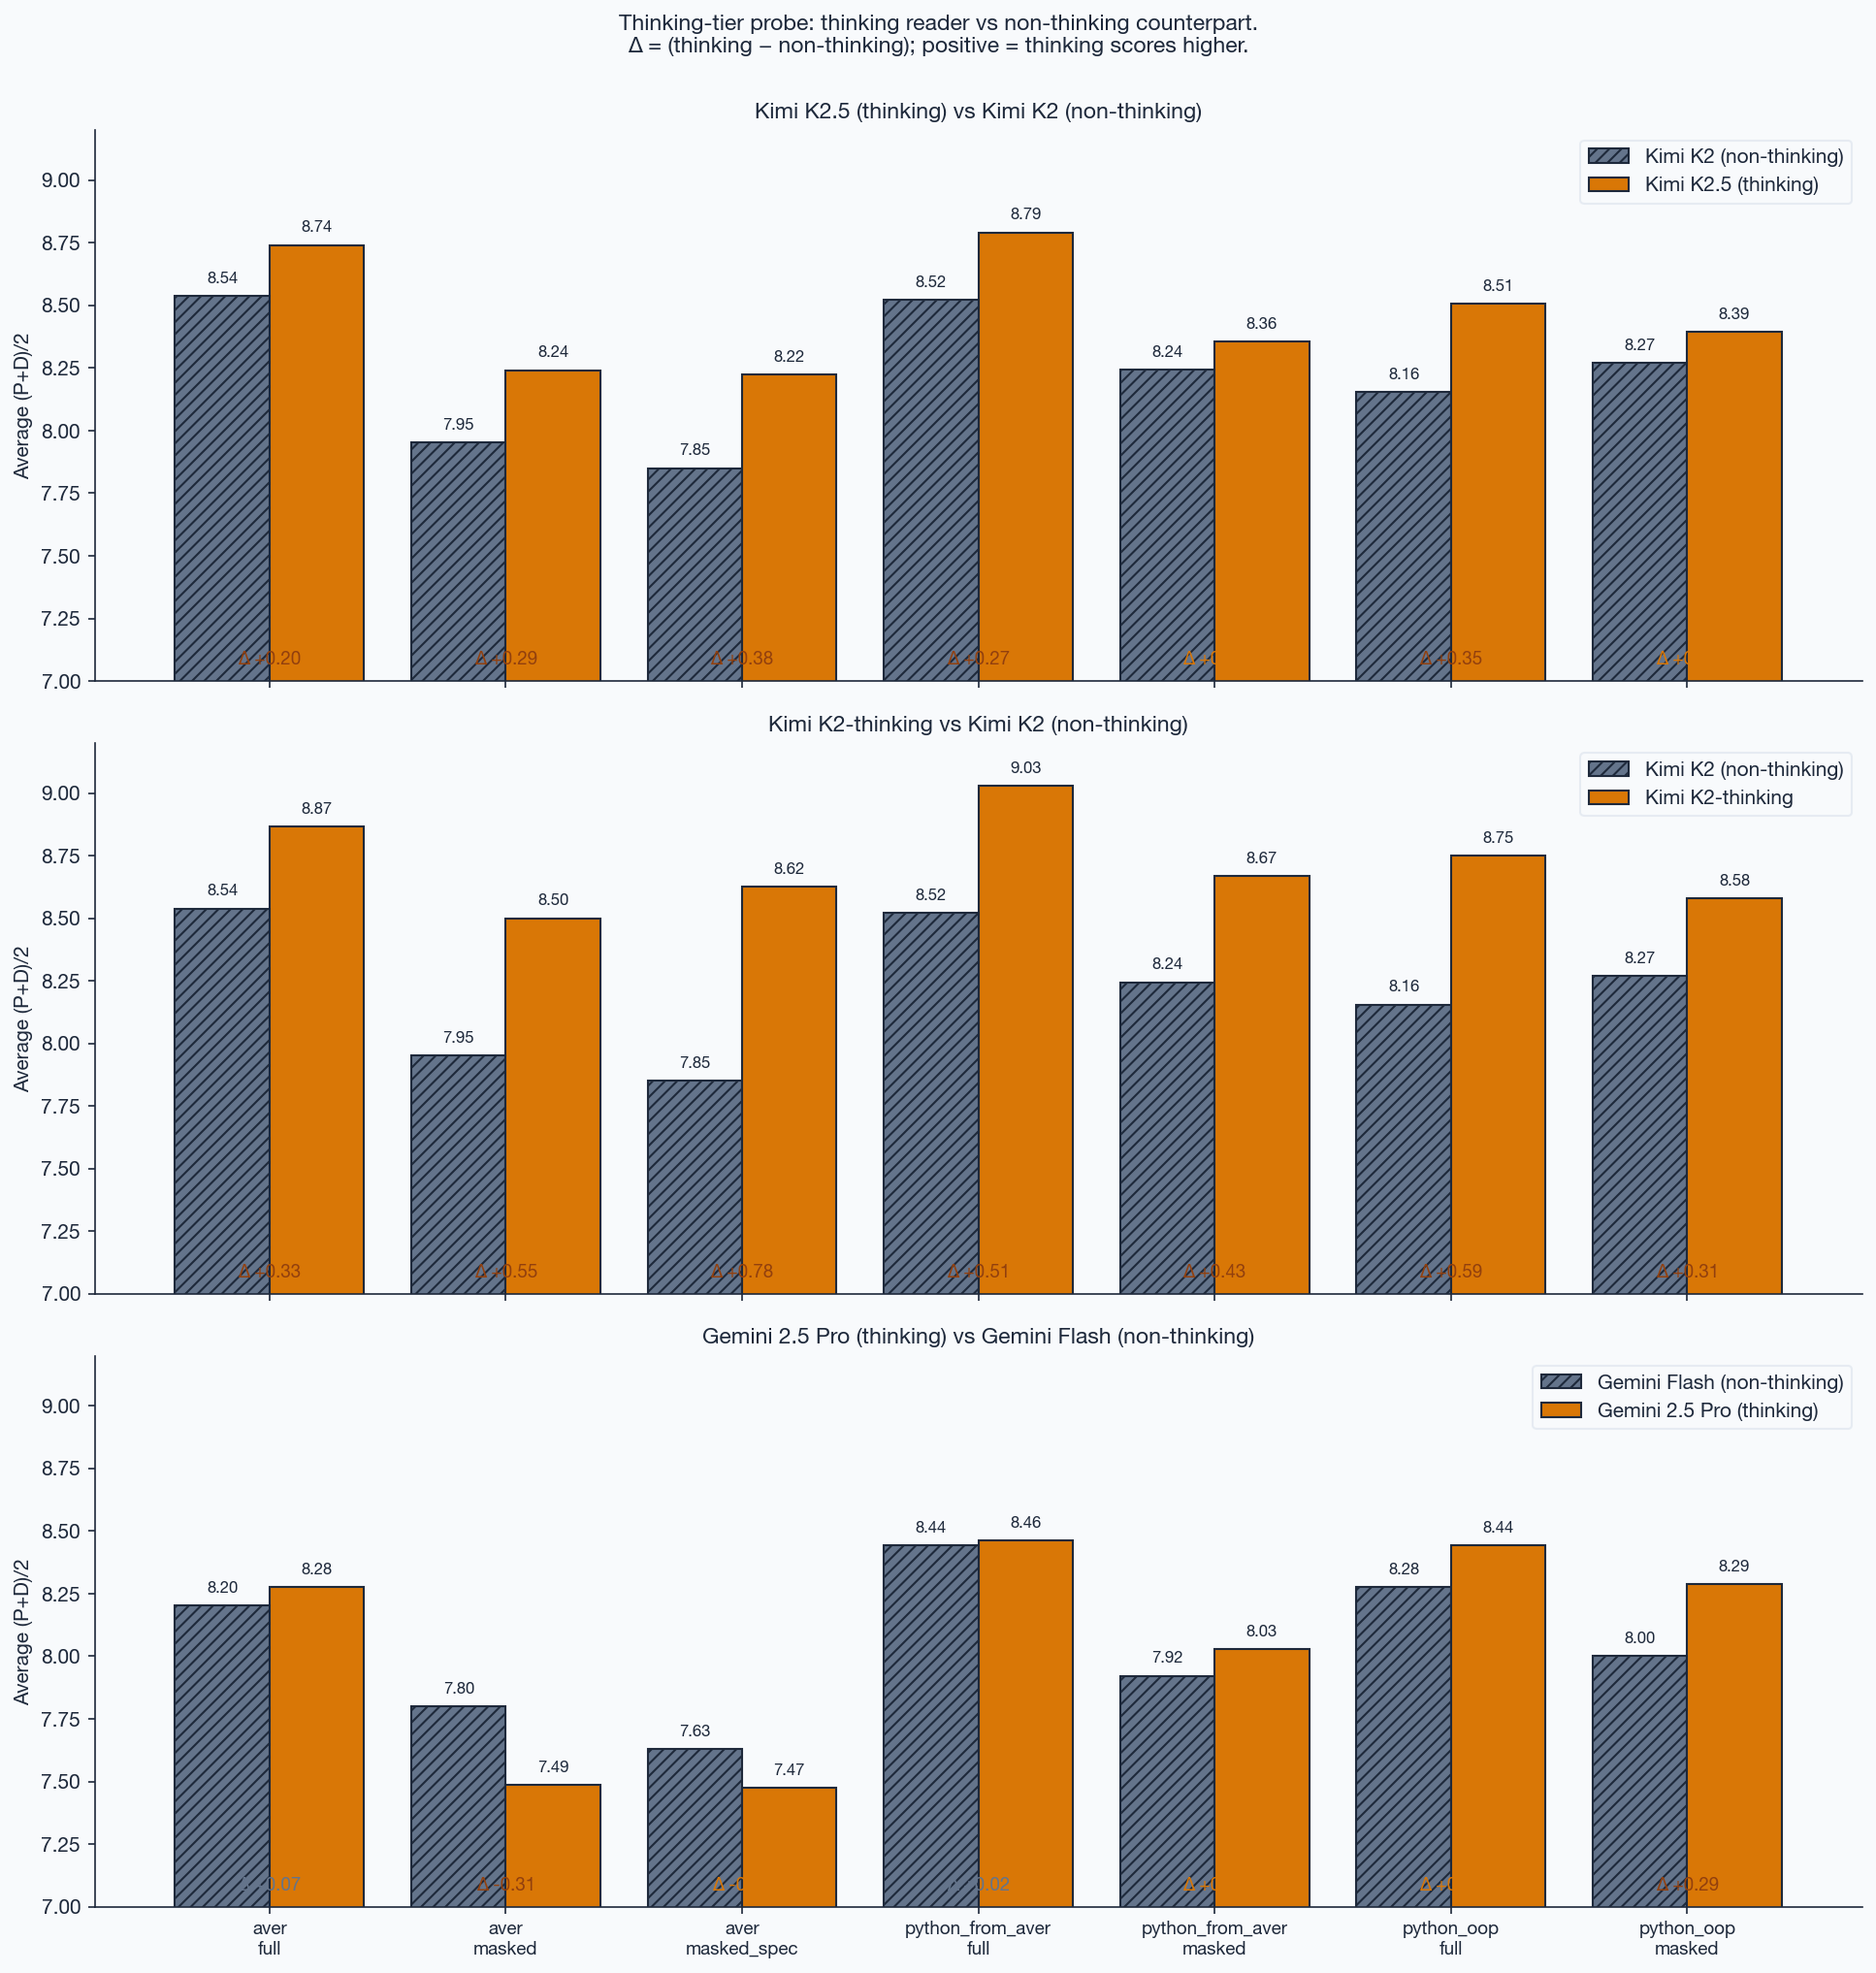
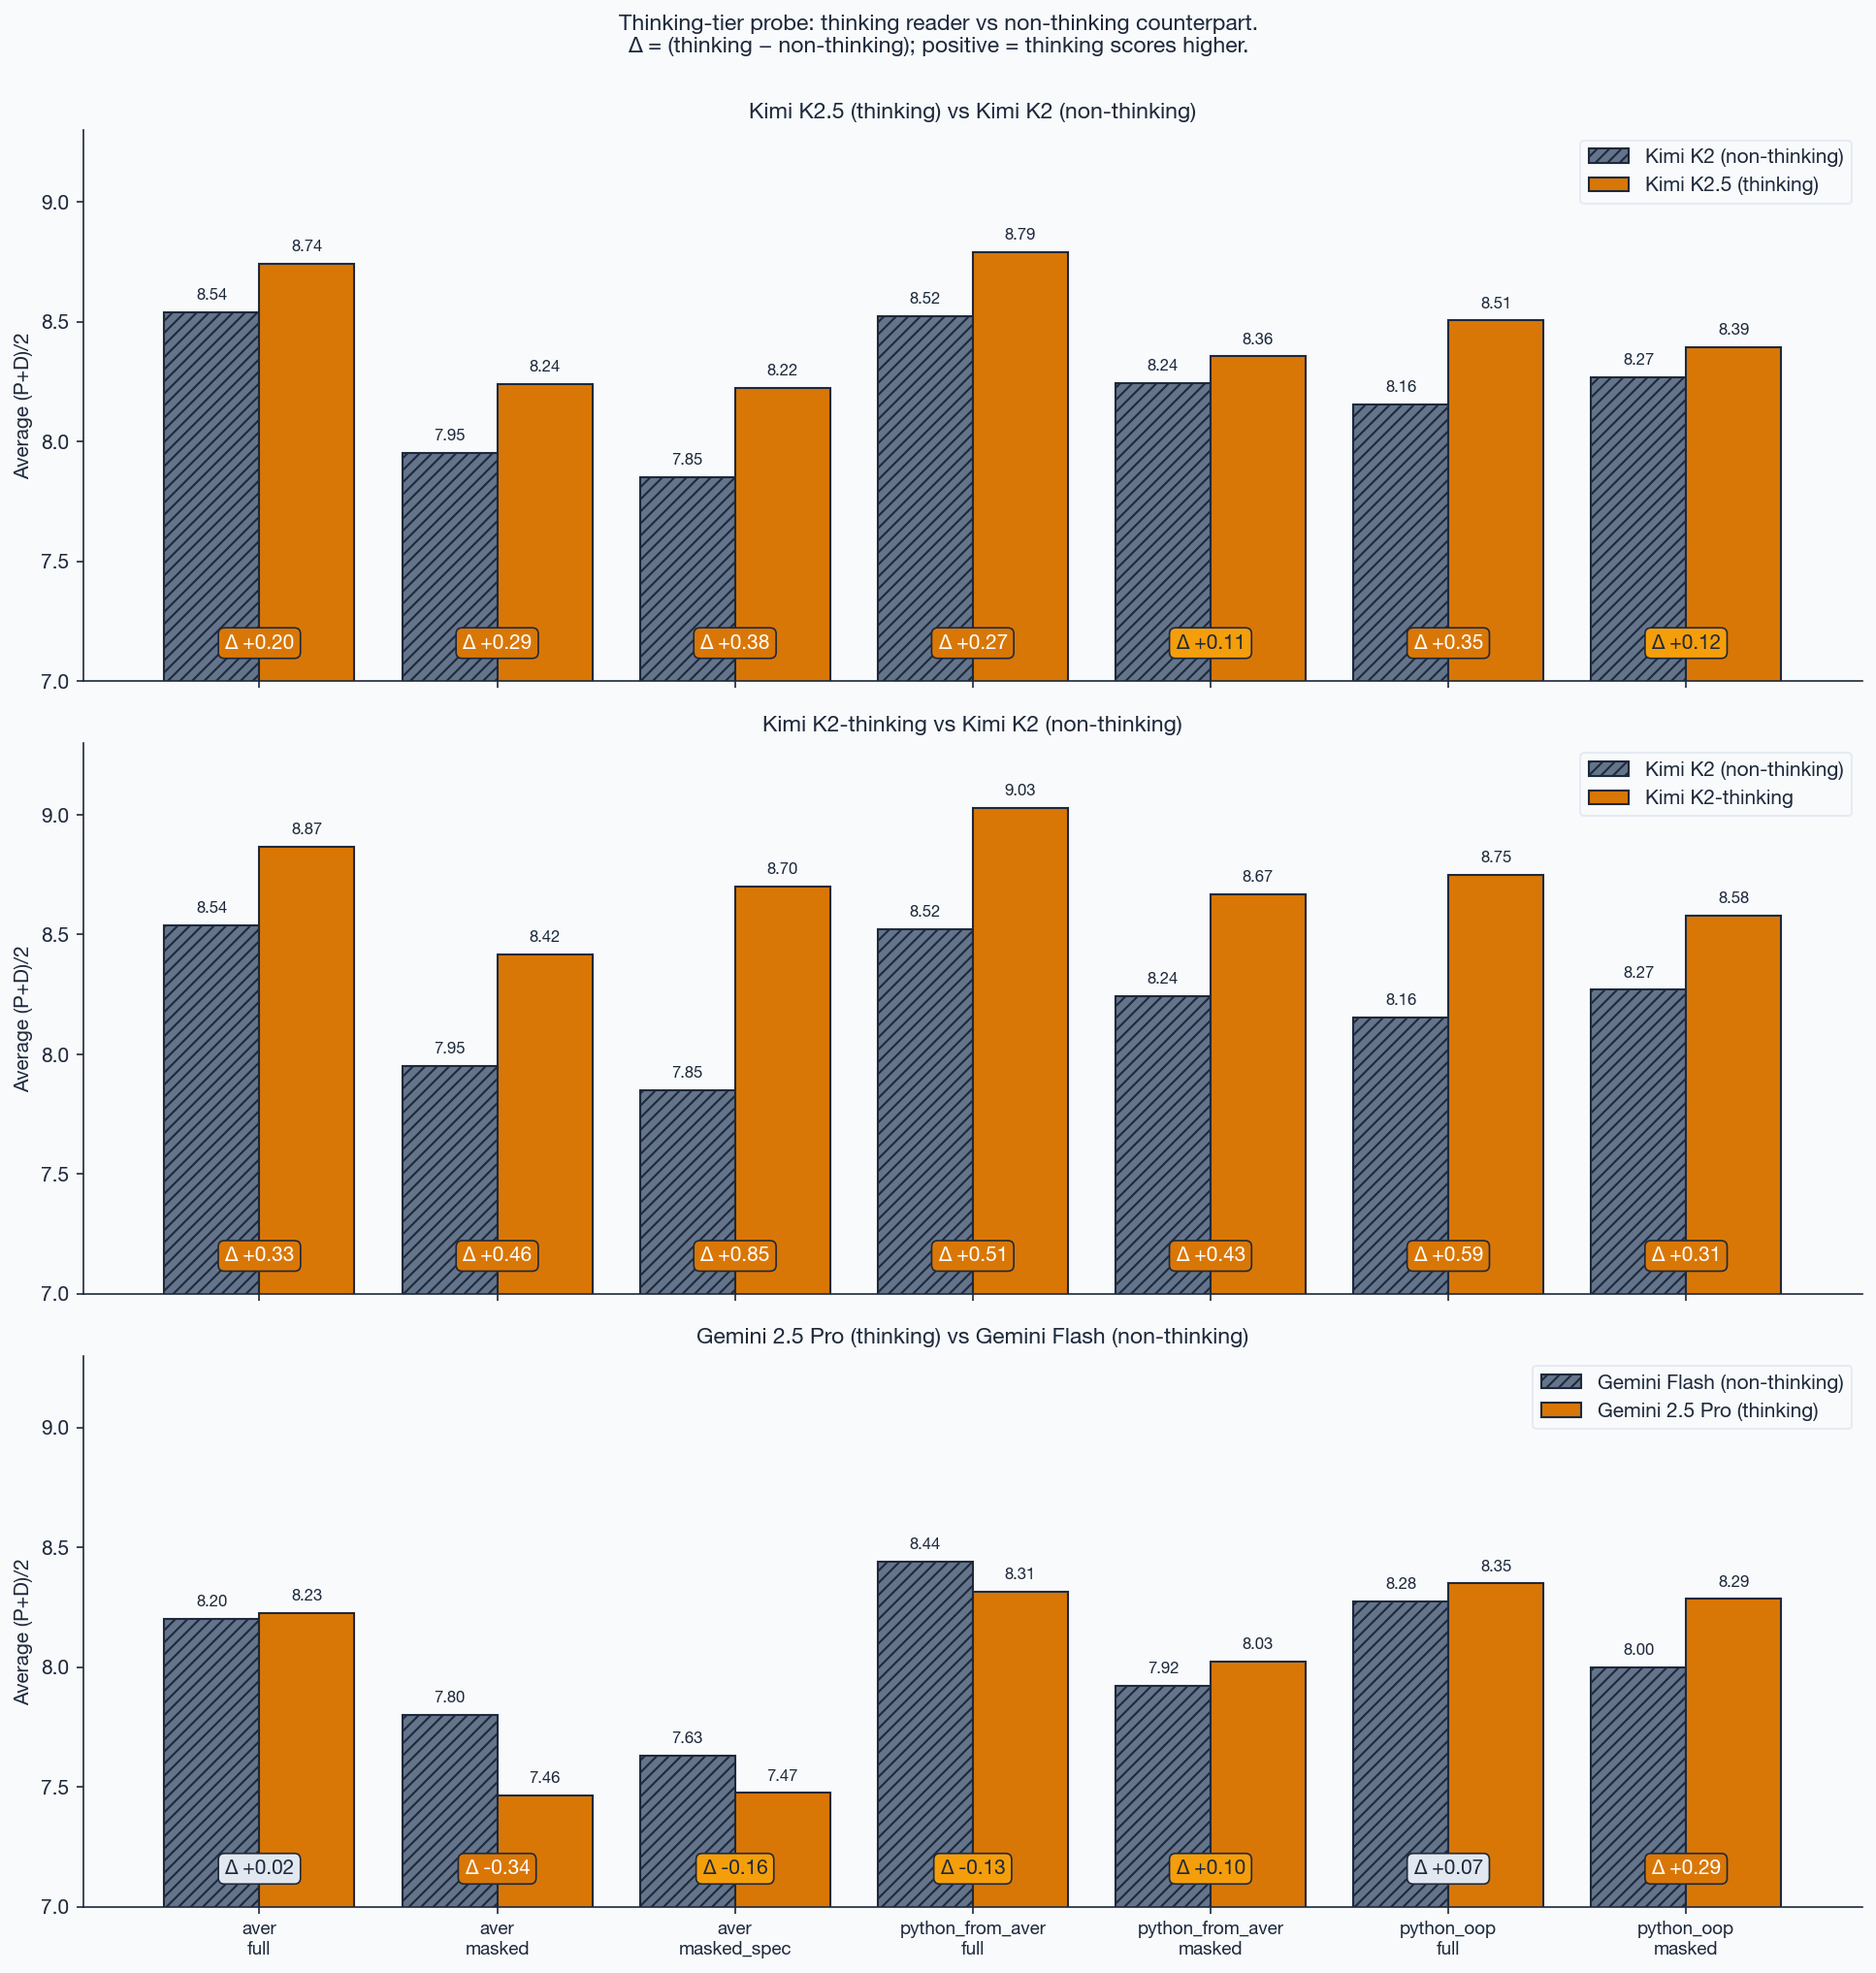
Plot: thinking_probe delta labels in bounding-box badges
Previous Δ labels were plain text at y=7.05 with color coding — invisible
on most cells. Replaced with rounded-box badges (amber for |Δ|≥0.20,
light amber for ≥0.10, slate for smaller). Clear visual legible at all
scales.

diff --git a/scripts/plot_judge_bias.py b/scripts/plot_judge_bias.py
@@ -827,13 +827,21 @@ def thinking_probe(out_path: Path) -> None:
                     ax.text(bar.get_x() + bar.get_width()/2, v + 0.04,
                             f"{v:.2f}", ha="center", va="bottom",
                             fontsize=8, color=SLATE)
+        # Delta badges: bounding-box labels below each cell, visible regardless of bar height
         for i, d in enumerate(deltas):
-            color = AMBER_DARK if abs(d) >= 0.20 else (AMBER if abs(d) >= 0.1 else SLATE_MUTED)
-            ax.text(i, 7.05, f"Δ {d:+.2f}", ha="center", va="bottom",
-                    fontsize=9, fontweight="bold", color=color)
+            if abs(d) >= 0.20:
+                bg, fg = AMBER, "white"
+            elif abs(d) >= 0.10:
+                bg, fg = AMBER_LIGHT, SLATE
+            else:
+                bg, fg = SLATE_LIGHT, SLATE
+            ax.text(i, 7.12, f"Δ {d:+.2f}", ha="center", va="bottom",
+                    fontsize=10, fontweight="bold", color=fg,
+                    bbox=dict(boxstyle="round,pad=0.3", facecolor=bg,
+                              edgecolor=SLATE, linewidth=0.8))
         ax.set_xticks(x)
         ax.set_xticklabels(labels, fontsize=9)
-        ax.set_ylim(7.0, 9.2)
+        ax.set_ylim(7.0, 9.3)
         ax.set_ylabel("Average (P+D)/2", fontweight="bold")
         ax.legend(loc="upper right", frameon=True, facecolor=BG, edgecolor=SLATE_LIGHT)
         ax.set_title(f"{name_t} vs {name_nt}", fontweight="bold", fontsize=11)
